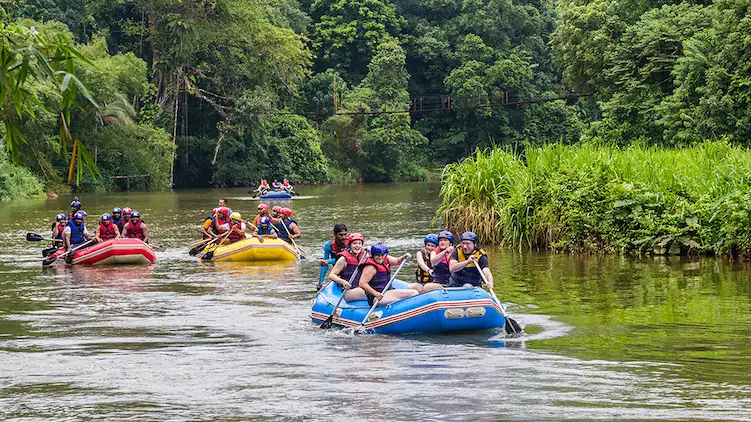
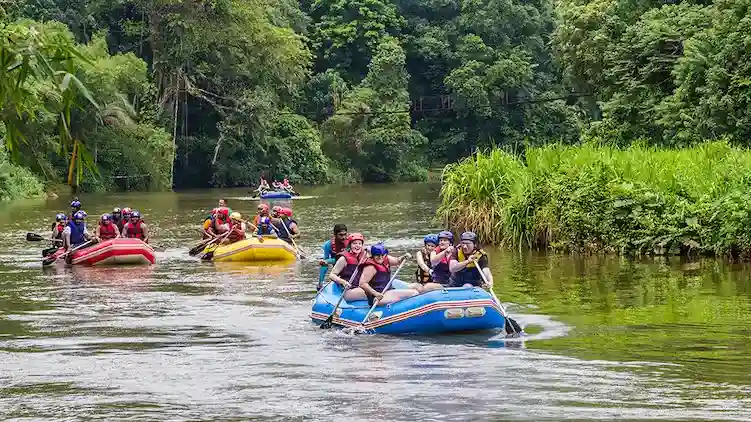
changes

diff --git a/wwr/about.html b/wwr/about.html
@@ -34,7 +34,7 @@
             <img src="images/hero-image.webp" alt="Hero image">
             <h1> Rafting Travel </h1>
             <article>
-                <img src="images/rafting-6.webp" alt="Waterfall rafting">
+                <img src="images/rafting-6.jpg" alt="Waterfall rafting">
                 <p>Lorem ipsum dolor sit, amet consectetur adipisicing elit. Cumque, esse atque. Qui excepturi commodi
                     voluptatibus officiis cupiditate itaque delectus deserunt eos quis neque similique soluta,
                     distinctio hic corporis dolore a?</p>
@@ -57,7 +57,7 @@
                 <figcaption>Amazing views</figcaption>
             </figure>
             <figure>
-                <img src="images/rafting-2.webp" alt="Water adventure" width="150">
+                <img src="images/rafting-2.jpg" alt="Water adventure" width="150">
                 <figcaption>Water adventure</figcaption>
             </figure>
             <figure>
